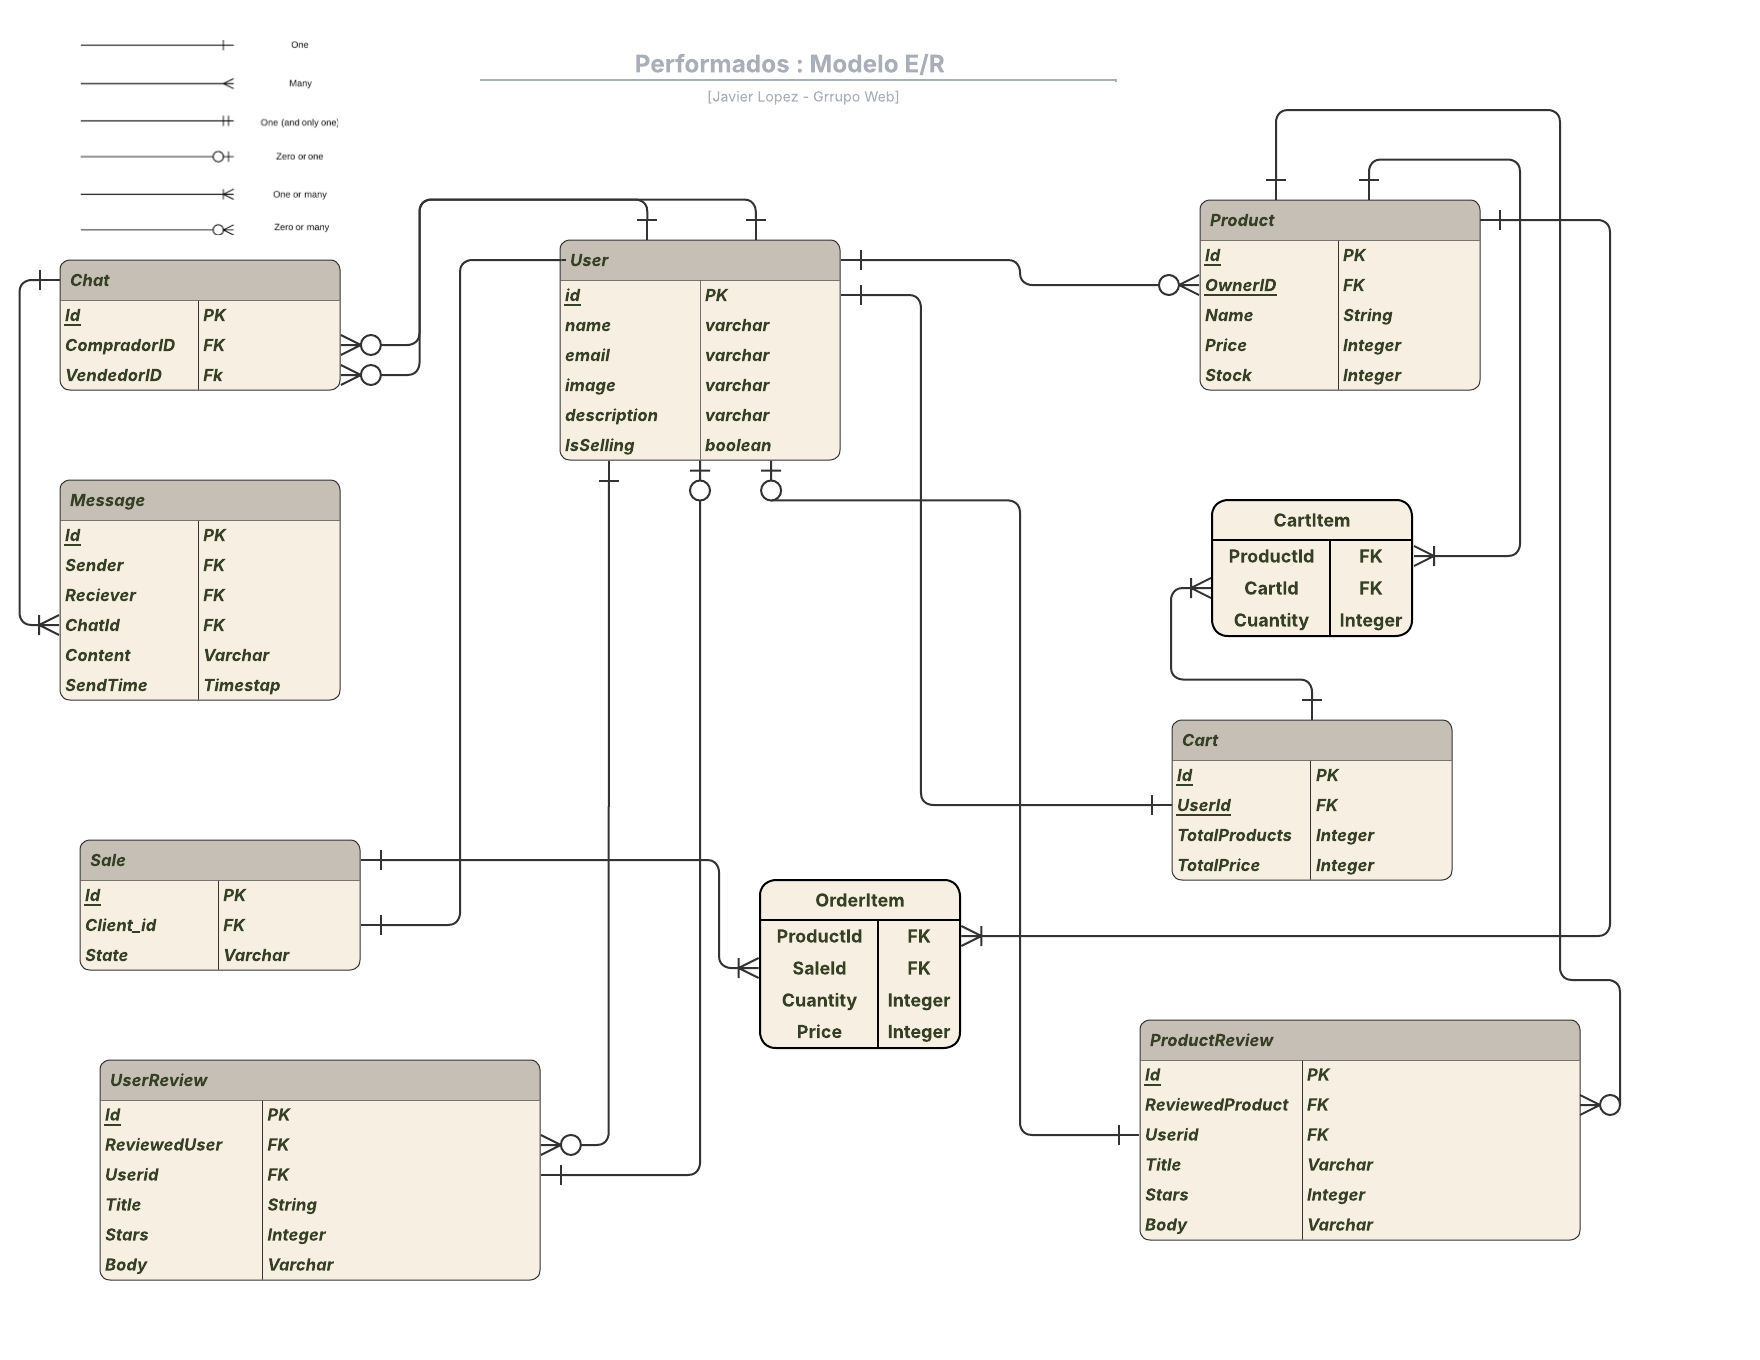
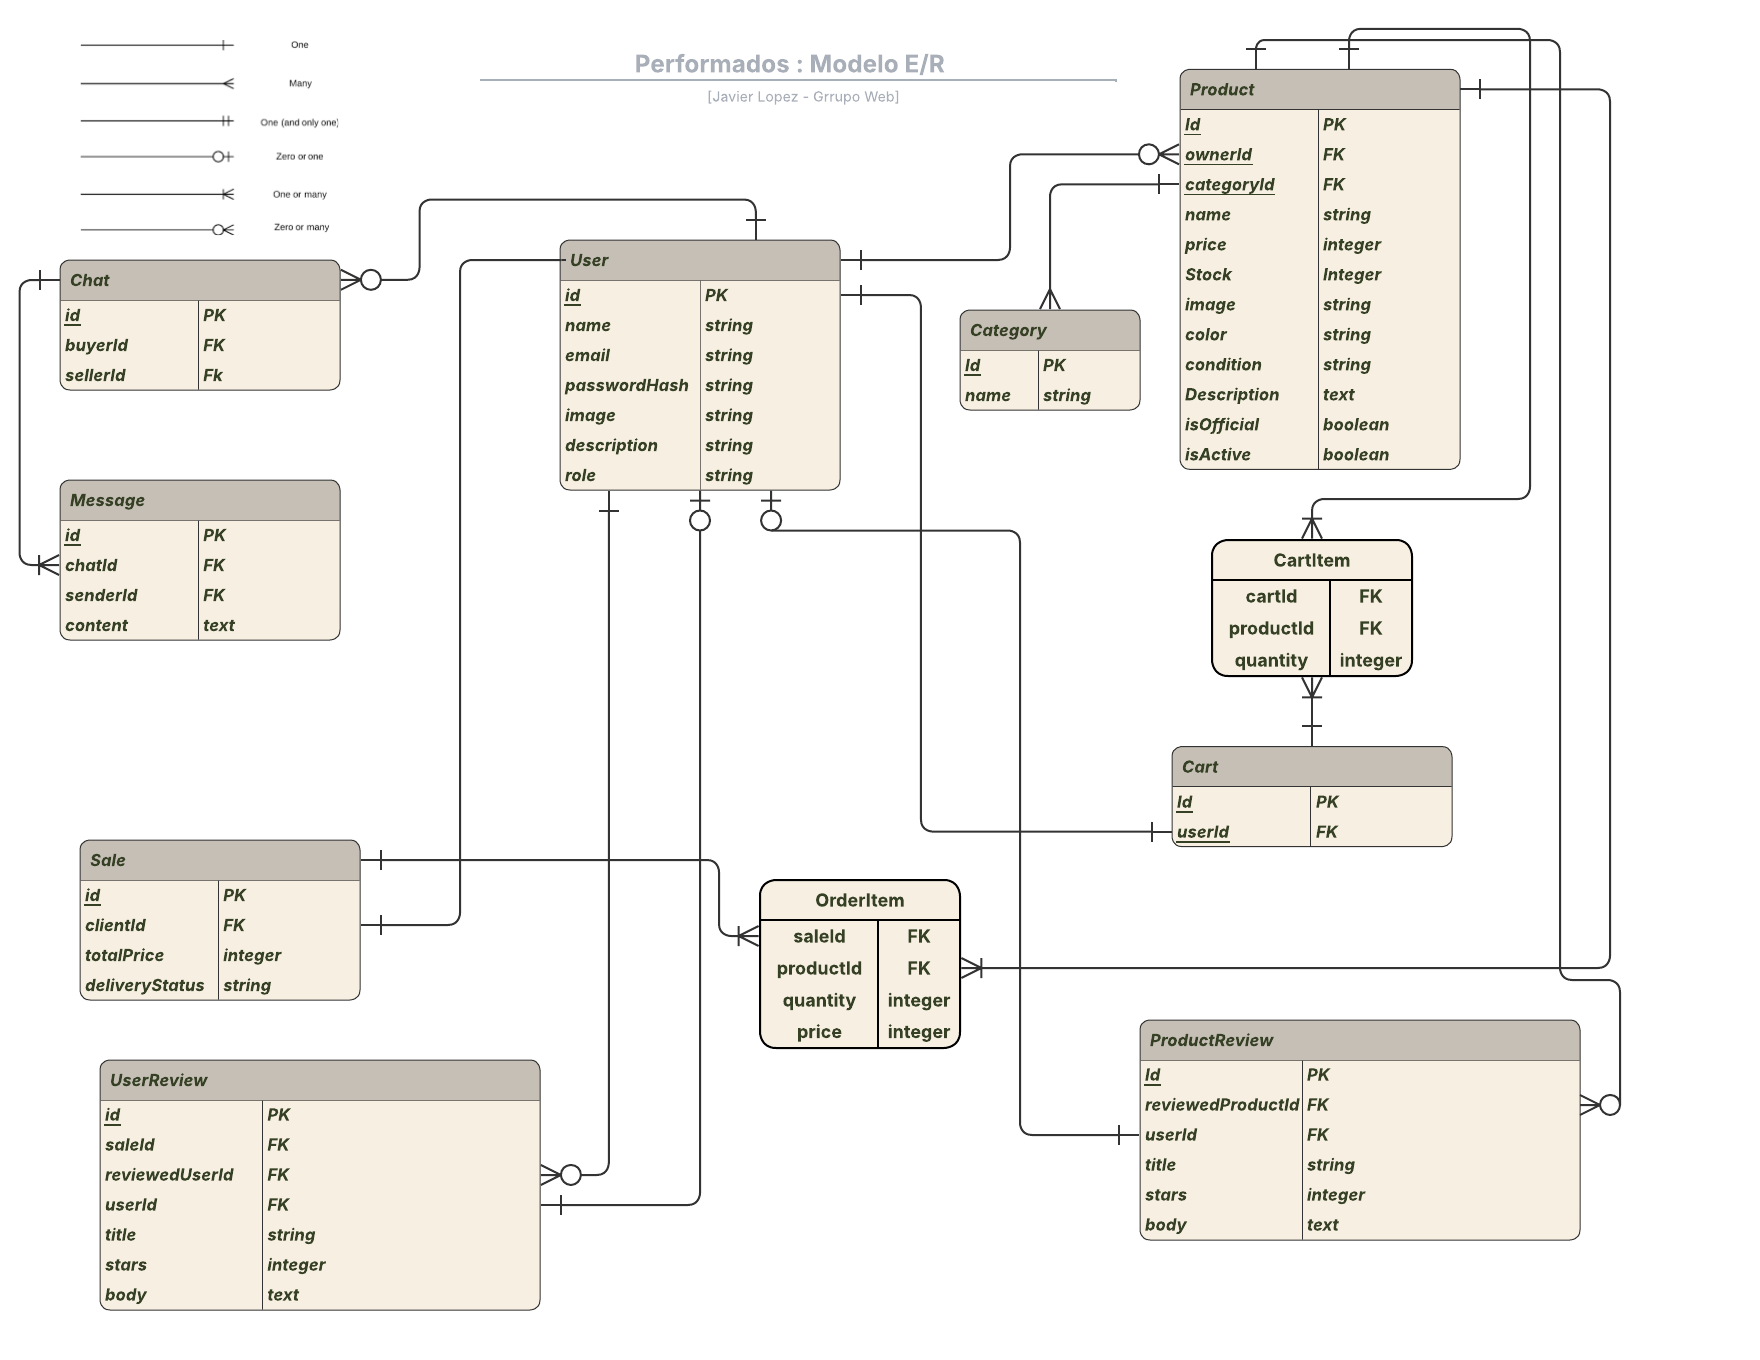
feat: add descritpion to readme

diff --git a/README.md b/README.md
@@ -12,7 +12,7 @@
 
 ¡Bienvenido a la nueva plataforma de compra y venta de productos para hombres performativos!
 
-Nuestro proyecto, es un eCommerce orientado a todos aquellos hombres que rompen con lo cotidiano. Por medio de nuestra app, los usuarios registrados podrán publicar y comprar productos orientados a la moda performativa
+Nuestro proyecto, es un eCommerce orientado a todos aquellos hombres juveniles que rompen con lo cotidiano. Por medio de nuestra app, los usuarios registrados podrán publicar y comprar productos orientados a la moda performativa, ademas de gozar de una excelente experiencia de usuario a la hora de contactar a los vendedores oficiales de la pagina, o a aquiellos usuarios que deseen vender sus productos a traves de la plataforma
 
 La idea del proyecto nace de que notamos que no existen tiendas específicas de esta categoría de productos. Por lo que esta página esta totalmente orientada a las personas interesadas en este estilo de vida.
 
@@ -20,16 +20,53 @@ Las funcionalidades minimas de la pagina, incluyen un carro de compras, perfiles
 
 ## Vistas principales (Mockups)
 
-<p align="center">
-  <img src="docs/Vista-Pc.png" alt="Vista de escritorio" width="400"/>
-  <img src="docs/Vista-iPad.png" alt="Vista de Ipad" width="200"/>
-  <img src="docs/Vista-Celular.png" alt="Vista de Celular" width="120"/>
-</p>
+### Vista Landing Page Computador
+
+<img src="docs/Vista-Pc.png" alt="Vista de escritorio" width="400"/>
+
+### Vista Landing Page Tablet
+
+<img src="docs/Vista-iPad.png" alt="Vista de Ipad" width="300"/>
+
+### Vista Landing Page Celular
+
+<img src="docs/Vista-Celular.png" alt="Vista de Celular" width="300"/>
+
+### Vista How to Use Computador
+
+<img src="docs/Uso-Vista-PC.png" alt="Vista de escritorio" width="400"/>
+
+### Vista How to Use Tablet
+
+<img src="docs/Uso-Vista-Tablet.png" alt="Vista de Ipad" width="300"/>
+
+### Vista How to Use Celular
+
+<img src="docs/Uso-Vista-Celular.png" alt="Vista de Celular" width="300"/>
+
+### Vista Productos Computador
+
+<img src="docs/Productos-Vista-PC.png" alt="Vista de escritorio" width="400"/>
+
+### Vista Productos Tablet
+
+<img src="docs/Productos-Vista-Tablet.png" alt="Vista de ipad" width="300"/>
+
+### Vista Productos Celular
+
+<img src="docs/Productos-Vista-Celular.png" alt="Vista de celular" width="300"/>
 
 ## Paleta de colores
 
 <img src="docs/Primary-Colors.png" alt="Colores primarios" width="400"/>
 <img src="docs/Secondary-Colors.png" alt="Colores secundarios" width="400"/>
+<img src="docs/Alert-Colors.png" alt="Colores de Alerta" width="400"/>
+
+### Ejemplos de Aplicacion de Diseño
+
+<img src="docs/Components-View1.png" alt="Colores primarios" width="700"/>
+
+<img src="docs/Components-View2.png" alt="Colores primarios" width="700"/>
 
 ## Fuentes
 
@@ -45,10 +82,14 @@ Las funcionalidades minimas de la pagina, incluyen un carro de compras, perfiles
 
 ## Vistas desarolladas
 
-<img src="docs/Landing.png" alt="Landing" width="700"/>
-<img src="docs/Landing2.png" alt="Landing2" width="700"/>
-<img src="docs/AboutUs.png" alt="AboutUs" width="700"/>
-<img src="docs/AboutUs2.png" alt="AboutUs2" width="700"/>
+<img src="docs/vista3.png" alt="Landing" width="700"/>
+<img src="docs/vista1.png" alt="Landing2" width="700"/>
+<img src="docs/vista2.png" alt="AboutUs" width="700"/>
+<img src="docs/vista7.png" alt="AboutUs2" width="700"/>
+<img src="docs/vista8.png" alt="AboutUs2" width="700"/>
+<img src="docs/vista4.png" alt="AboutUs2" width="700"/>
+<img src="docs/vista5.png" alt="AboutUs2" width="700"/>
+<img src="docs/vista6.png" alt="AboutUs2" width="700"/>
 
 ## Historias de Usuario
 
